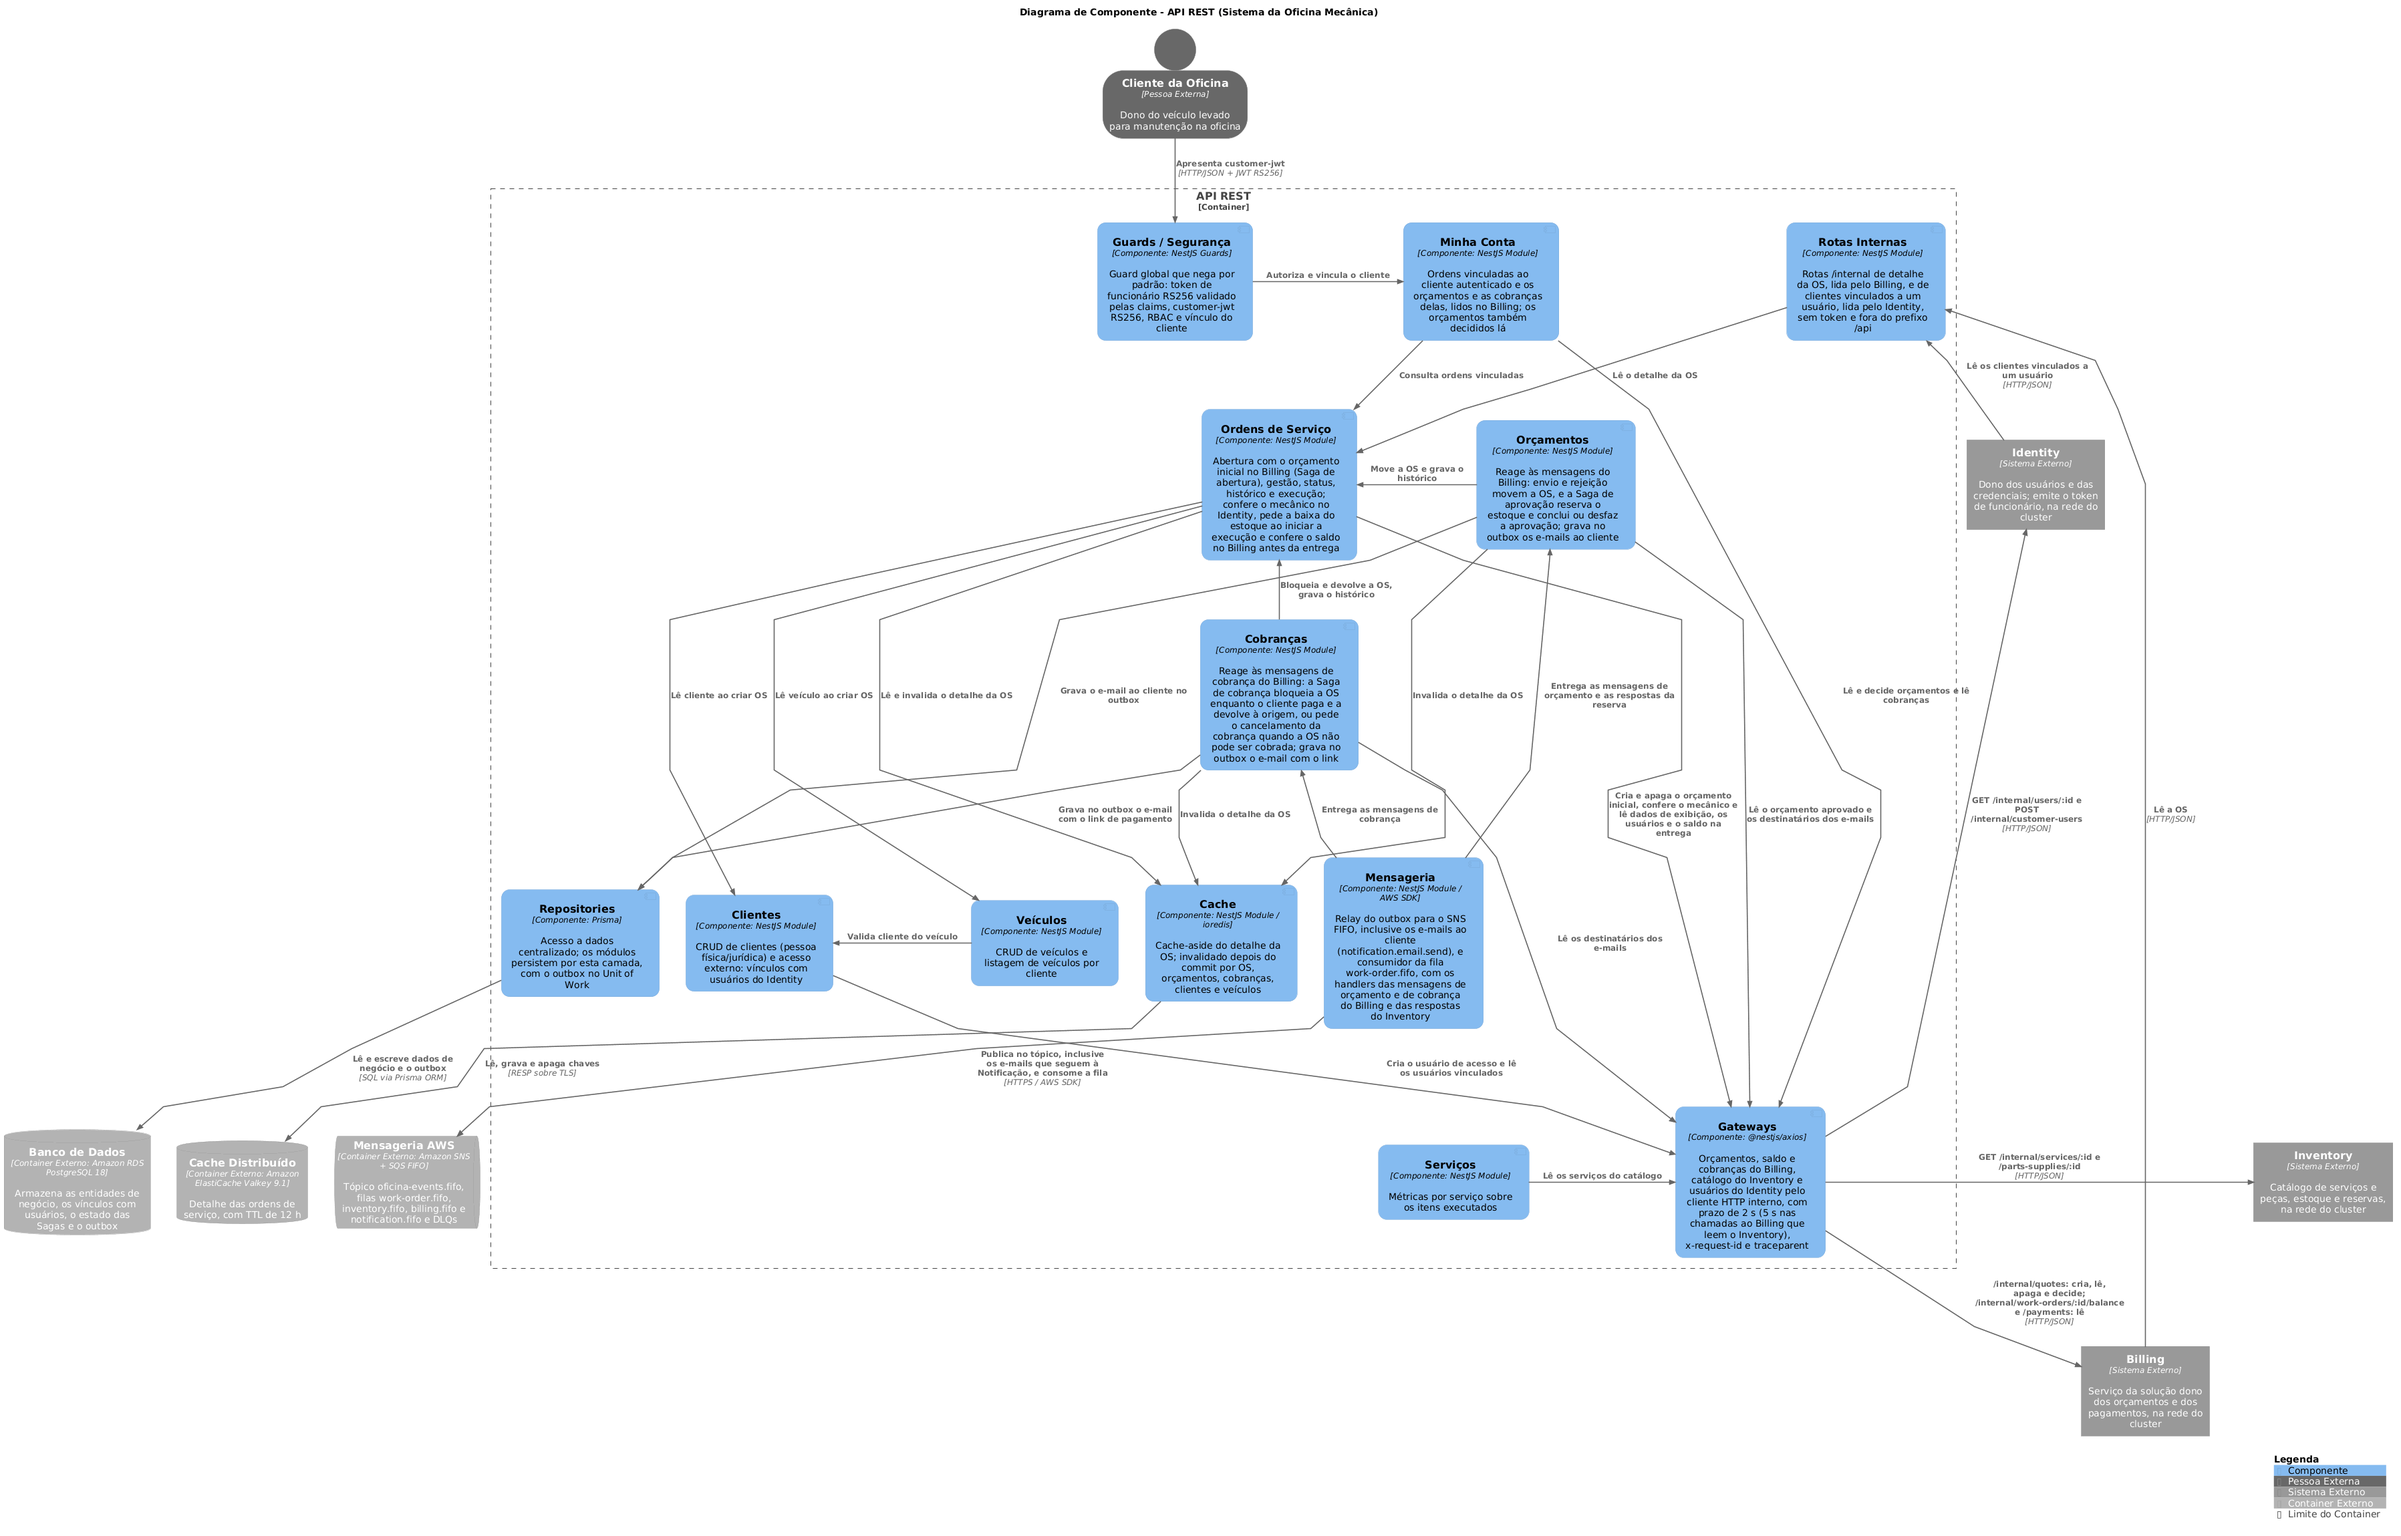
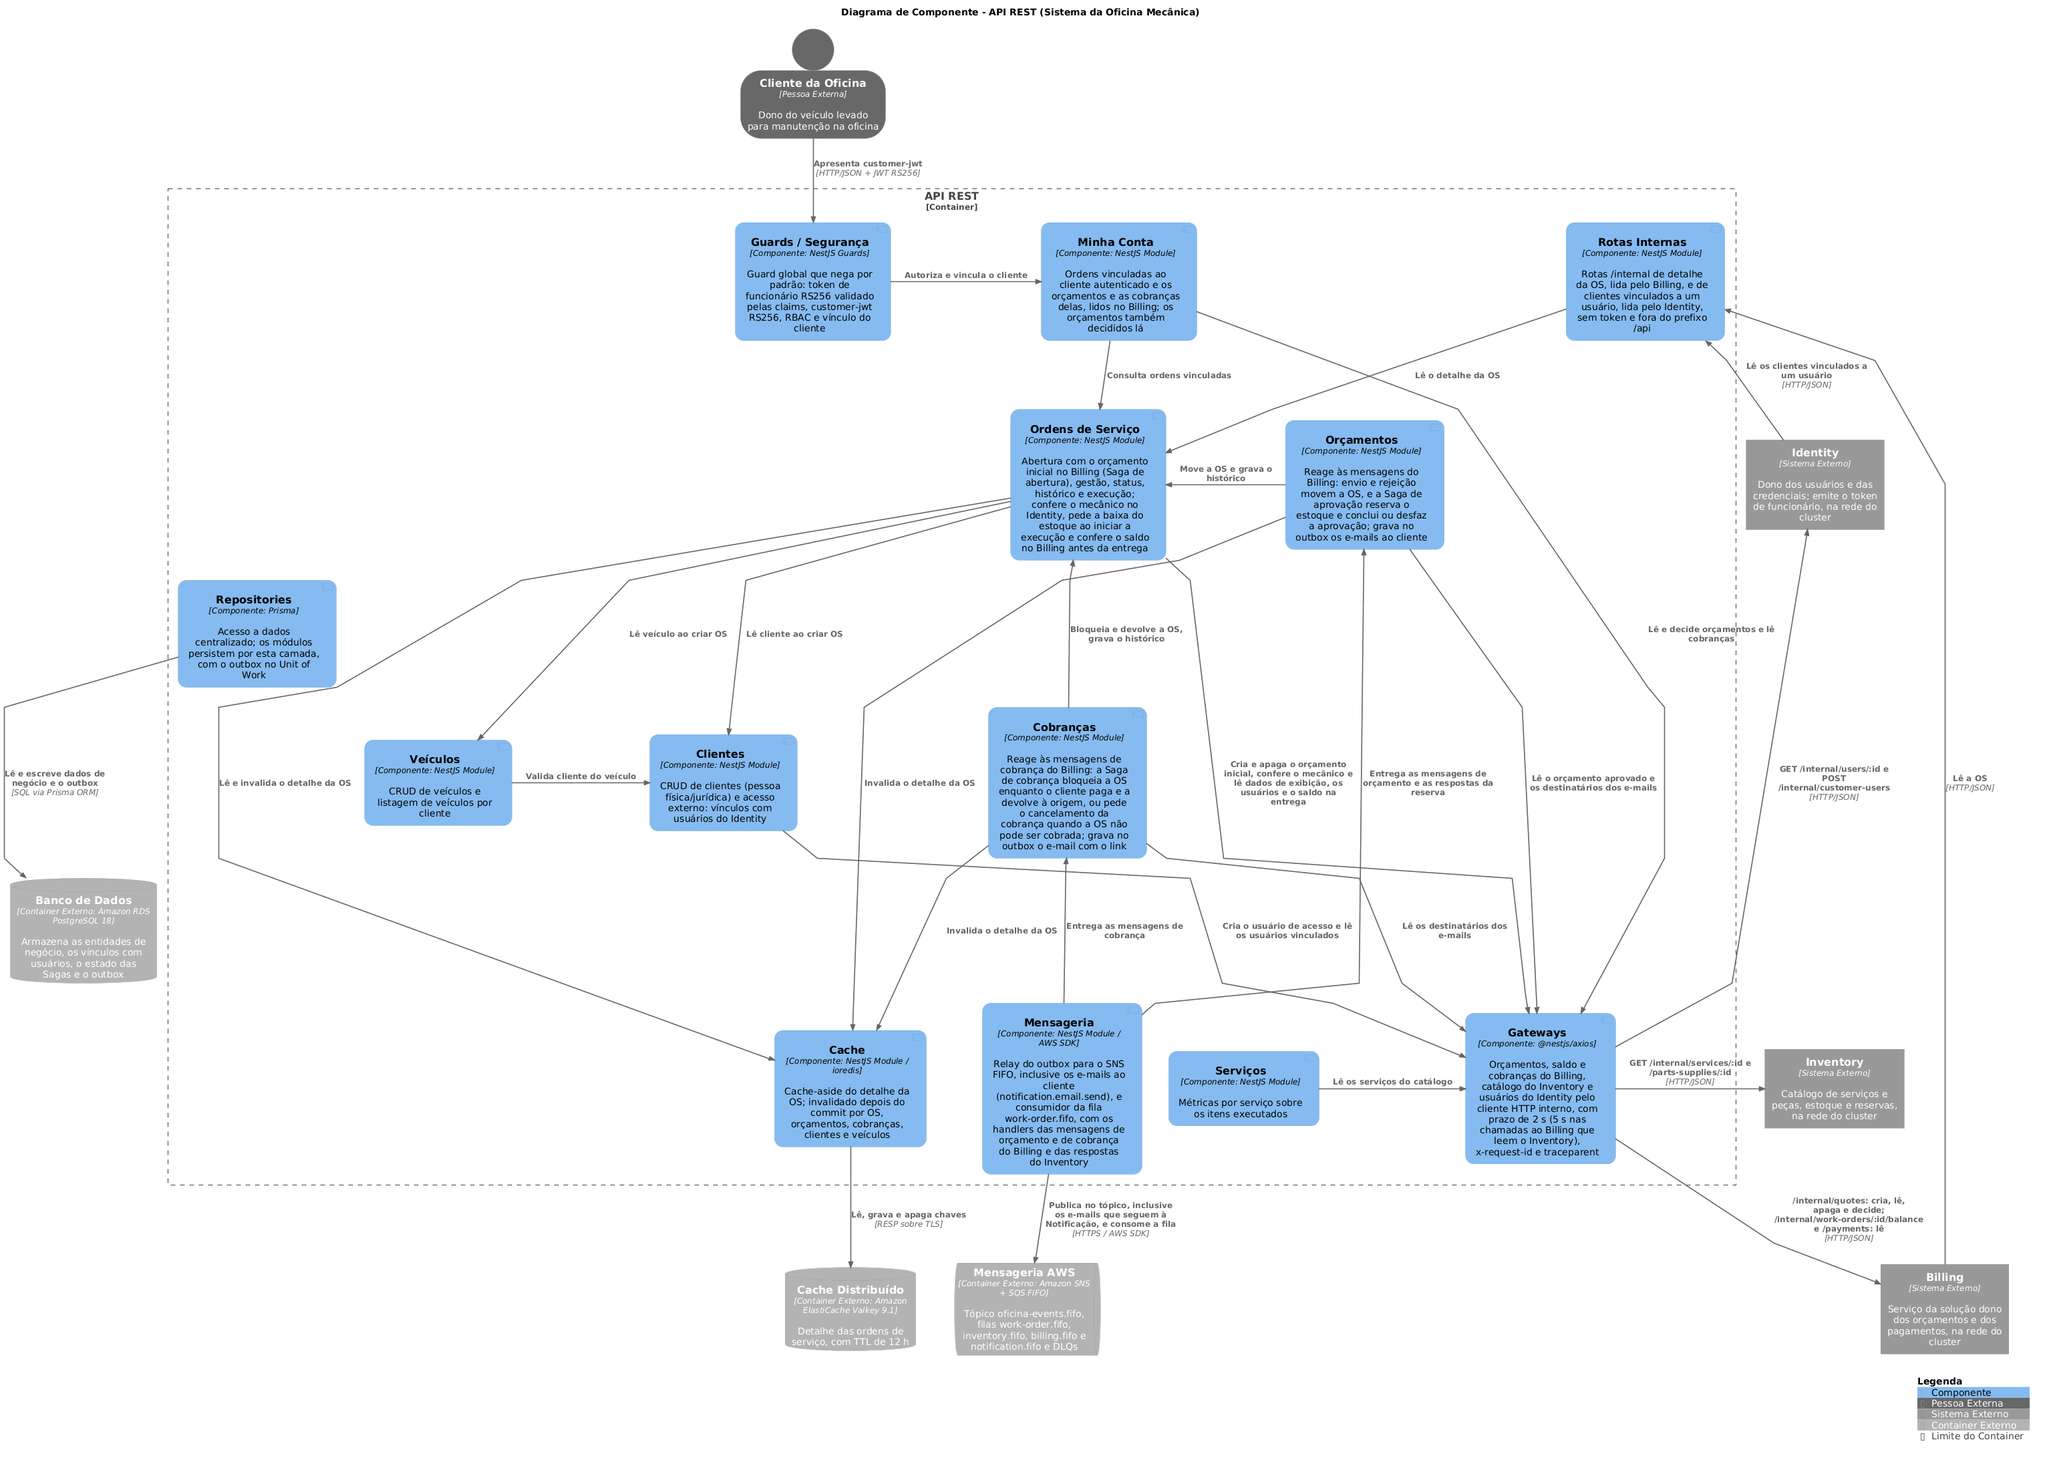
docs(work-order): untangle C4 container and component diagrams

diff --git a/docs/c4/README.md b/docs/c4/README.md
@@ -86,7 +86,7 @@ O zoom mais interno: as peças que compõem o container **API REST**.
 
 São **oito módulos de negócio** (Minha Conta, Clientes, Veículos, Serviços, Ordens de Serviço, Orçamentos, Cobranças e Rotas Internas) e **cinco componentes transversais** (Guards / Segurança, Repositories, Cache, Mensageria e Gateways), com as dependências reais entre módulos levantadas no código. Destaques do fluxo: **Ordens de Serviço** abre a OS com o orçamento inicial criado no **Billing**, o serviço dono dos orçamentos, pelos **Gateways**, e o apaga se a gravação da OS falha (a Saga de abertura, ver [Arquitetura](../architecture.md#saga-de-abertura)); pelos mesmos **Gateways**, confere no **Identity**, o serviço dono dos usuários, o mecânico atribuído antes de gravar e lê nele o mecânico e os autores do histórico para as respostas; **Clientes** pede ao Identity o usuário de acesso de um cliente e lê os usuários vinculados; **Orçamentos** não tem rota HTTP: a **Mensageria** entrega a ele as mensagens do Billing (orçamento enviado, rejeitado, aprovado e aprovação desfeita) e as respostas da reserva de estoque do **Inventory**, e ele move a OS, conduz a Saga de aprovação (ver [Arquitetura](../architecture.md#aprovação-de-orçamento-com-reserva-de-estoque)), lê o orçamento aprovado pelos **Gateways** e grava no outbox, pelos **Repositories**, o e-mail aos usuários vinculados, lidos no Identity pelos **Gateways** (a **Mensageria** o publica, e a Notificação, a função Lambda de e-mail da solução, o envia); **Cobranças** também não tem rota HTTP: recebe da **Mensageria** as mensagens de cobrança do Billing (cobrança criada, paga ou não paga), conduz a Saga de cobrança (ver [Arquitetura](../architecture.md#saga-de-cobrança)), bloqueia a OS enquanto o cliente paga e a devolve ao status de antes, e grava no outbox o e-mail com o link de pagamento; o **Cliente da Oficina** apresenta o `customer-jwt` ao componente **Guards / Segurança**, que o vincula ao módulo **Minha Conta**, que lê e decide os orçamentos e lê as cobranças no Billing pelos **Gateways**; o **Billing** lê a OS e o **Identity** lê os clientes vinculados a um usuário pelas **Rotas Internas**; e **Ordens de Serviço**, **Orçamentos** e **Cobranças** leem ou invalidam o detalhe da OS no **Cache**.
 
-As dependências de quase todos os módulos em relação a **Guards / Segurança** e **Repositories**, e as de **Clientes** e **Veículos** em relação ao **Cache**, estão descritas no texto desses componentes, e **não desenhadas como setas** — isso evita cerca de 18 setas repetidas que poluiriam o diagrama sem agregar informação. A exceção é a gravação do e-mail ao cliente no outbox por **Orçamentos** e **Cobranças**: são as únicas setas para **Repositories** no diagrama, desenhadas porque é por elas que o e-mail sai do serviço. Como no exemplo oficial (Figura 3 do material da aula), as setas entre componentes do mesmo container não levam rótulo de tecnologia; a tecnologia aparece somente nas relações que cruzam a fronteira da API, como cliente, Banco de Dados, Cache Distribuído, Mensageria AWS, Billing, Inventory e Identity.
+As dependências de quase todos os módulos em relação a **Guards / Segurança** e **Repositories**, e as de **Clientes** e **Veículos** em relação ao **Cache**, estão descritas no texto desses componentes, e **não desenhadas como setas** — isso evita cerca de 18 setas repetidas que poluiriam o diagrama sem agregar informação. A gravação dos e-mails ao cliente no outbox por **Orçamentos** e **Cobranças** também passa por **Repositories** e está no texto desses dois componentes. Como no exemplo oficial (Figura 3 do material da aula), as setas entre componentes do mesmo container não levam rótulo de tecnologia; a tecnologia aparece somente nas relações que cruzam a fronteira da API, como cliente, Banco de Dados, Cache Distribuído, Mensageria AWS, Billing, Inventory e Identity.
 
 **Módulos de negócio**
 
